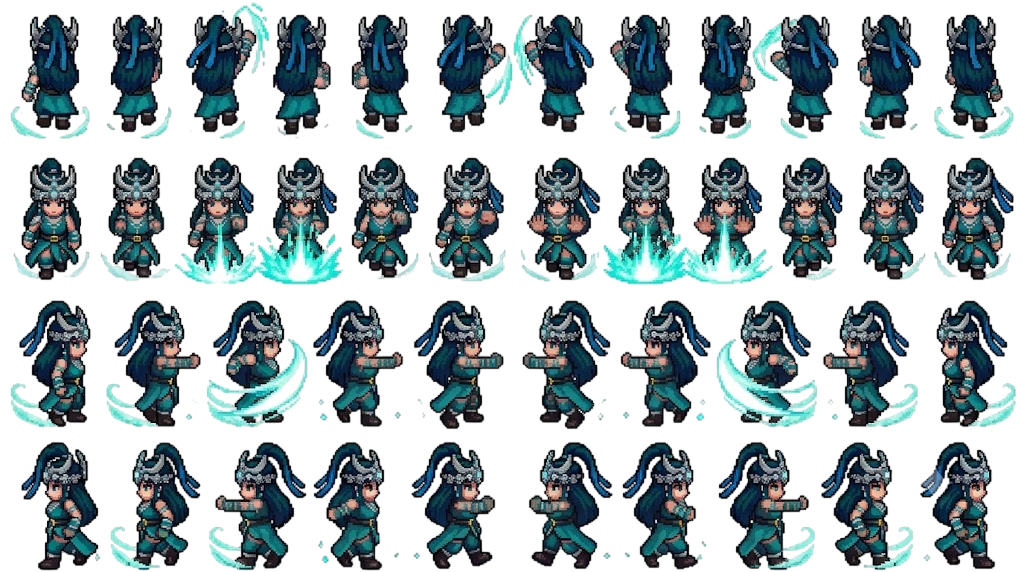
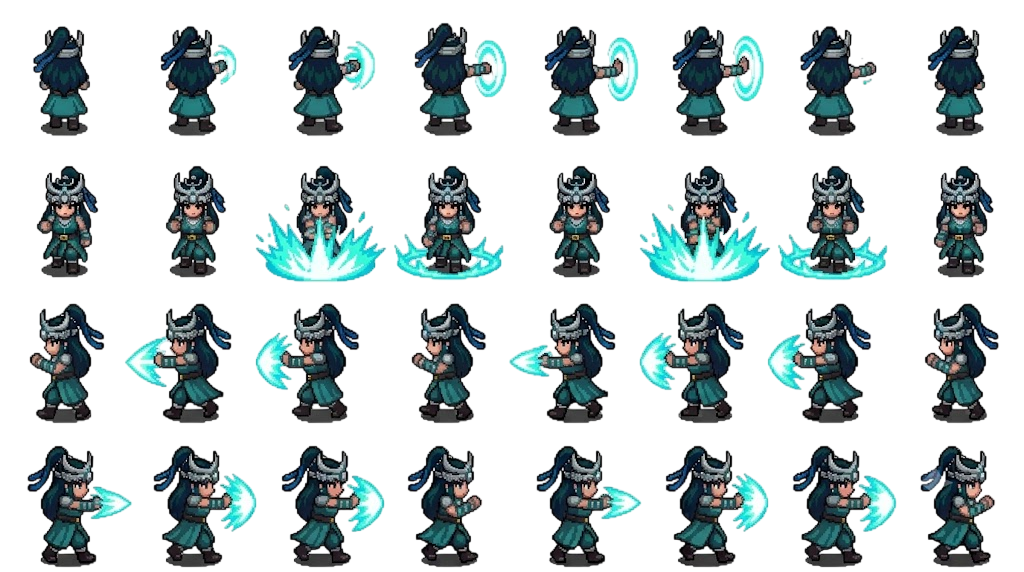
update

diff --git a/src/systems/mat_na_noel.js b/src/systems/mat_na_noel.js
@@ -21,12 +21,12 @@
   var MAT_NA = MN.DS = {
     mat_na_noel: { hinh: "noel", anh: "assets/sprites/ngoai_trang/noel.png", fw: 140, fh: 174, ax: 70, ay: 148, tiLe: 0.46,
       di: [0, 8], danh: [8, 8], ngoi: [16, 2], dung: 18, fpsDi: 11, fpsDanh: 14, fpsNgoi: 1.1 },
-    // Liễu Như Yên: hàng xuống/lên 12 khung, trái/phải 10 khung (soDi/soDanh theo hướng game: xuống, trái, phải, lên)
-    mat_na_lieu_nhu_yen: { hinh: "lieu_nhu_yen", anh: "assets/sprites/ngoai_trang/lieu_nhu_yen.png", fw: 150, fh: 180, ax: 75, ay: 160, tiLe: 0.42,
-      di: [0, 12], danh: [12, 12], soDi: [12, 10, 10, 12], soDanh: [12, 10, 10, 12], ngoi: [24, 2], dung: 26, fpsDi: 12, fpsDanh: 16, fpsNgoi: 1.1 }
+    // Liễu Như Yên: 8 khung đi, 8 khung đánh mỗi hướng; ngồi 2 khung; đứng 1 khung (cắt bằng tools/lieu_nhu_yen/cat.py)
+    mat_na_lieu_nhu_yen: { hinh: "lieu_nhu_yen", anh: "assets/sprites/ngoai_trang/lieu_nhu_yen.png", fw: 150, fh: 180, ax: 75, ay: 160, tiLe: 0.5,
+      di: [0, 8], danh: [8, 8], ngoi: [16, 2], dung: 18, fpsDi: 10, fpsDanh: 14, fpsNgoi: 1.1 }
   };
   var ICON_LNY = "assets/items/icon_mat_na_lieu_nhu_yen.png";
-  if (P.ASSET_MANIFEST) { P.ASSET_MANIFEST[ICON_LNY] = 8730; P.ASSET_MANIFEST[MAT_NA.mat_na_lieu_nhu_yen.anh] = 416173; }
+  if (P.ASSET_MANIFEST) { P.ASSET_MANIFEST[ICON_LNY] = 8730; P.ASSET_MANIFEST[MAT_NA.mat_na_lieu_nhu_yen.anh] = 256920; }
   var ICON = "assets/items/icon_mat_na_noel.png";
   if (P.ASSET_MANIFEST) { P.ASSET_MANIFEST[ICON] = 6881; P.ASSET_MANIFEST[MAT_NA.mat_na_noel.anh] = 286997; }
 
@@ -80,7 +80,7 @@
   function layAnh(m) {
     var a = anh[m.anh];
     if (a) return a.complete && a.naturalWidth ? a : null;
-    a = anh[m.anh] = new Image(); a.src = m.anh + "?v=7";
+    a = anh[m.anh] = new Image(); a.src = m.anh + "?v=8";
     return null;
   }
 

diff --git a/index.html b/index.html
@@ -990,7 +990,7 @@
 <script src="src/systems/loot_rates.js?v=2"></script>
 <script src="src/systems/thu_cuoi.js?v=7"></script>
 <script src="src/systems/phi_phong.js?v=10"></script>
-<script src="src/systems/vat_pham_moi.js?v=1"></script>
+<script src="src/systems/vat_pham_moi.js?v=2"></script>
 <script src="src/systems/thong_ke.js?v=1"></script>
 <script src="src/systems/gacha.js?v=2234ca720f84"></script>
 <script src="src/systems/food.js?v=c2c3e29c5442"></script>
@@ -1221,12 +1221,11 @@
 <script src="src/core/game.js?v=ee599baa4209"></script>
 <script src="src/systems/bot.js?v=4"></script>
 <script src="src/systems/huyen_am_tram.js?v=8"></script>
-<script src="src/systems/nhan_kiem_hop_nhat.js?v=4"></script>
 <script src="src/world/map_bach_ho_duong.js?v=1"></script>
 <script src="src/systems/long_quy.js?v=7"></script>
 <script src="src/systems/bach_ho_duong.js?v=7"></script>
 <script src="src/systems/van_tieu_offline.js?v=2"></script>
-<script src="src/systems/mat_na_noel.js?v=11"></script>
+<script src="src/systems/mat_na_noel.js?v=12"></script>
 <script src="src/systems/trieu_hoi.js?v=1"></script>
 <script src="src/main.js?v=3a299e936ed3"></script>
 </body>

diff --git a/src/systems/vat_pham_moi.js b/src/systems/vat_pham_moi.js
@@ -10,4 +10,13 @@
   var I = P.ITEMS;   // ví dụ: I.ten_moi = { id: "ten_moi", name: "...", ... };
 
   // (Huyết Ma Phủ đã có trong items.js bản mới của tác giả — không khai báo lại ở đây.)
+
+  // Vật phẩm đã gỡ khỏi game: xoá khỏi túi đồ của người chơi cũ khi vào game
+  var DA_GO = ["bi_tich_nhan_kiem_hop_nhat"];
+  function donTui() {
+    var INV = P.Inventory; if (!INV || !INV.bag) return false;
+    DA_GO.forEach(function (id) { if (id in INV.bag) delete INV.bag[id]; if (INV.bound && id in INV.bound) delete INV.bound[id]; });
+    return true;
+  }
+  var lan = 0, hen = setInterval(function () { donTui(); if (++lan > 60) clearInterval(hen); }, 1000);
 })(window.PNTT);

diff --git a/admin.html b/admin.html
@@ -149,7 +149,6 @@
 <script src="src/systems/thu_cuoi.js"></script>
 <script src="src/systems/phi_phong.js"></script>
 <script src="src/systems/huyen_am_tram.js"></script>
-<script src="src/systems/nhan_kiem_hop_nhat.js"></script>
 <script src="src/systems/mat_na_noel.js"></script>
 <script>
 (function () {

diff --git a/tools/lieu_nhu_yen/cat.py b/tools/lieu_nhu_yen/cat.py
@@ -1,24 +1,47 @@
-# Cắt sprite Liễu Như Yên: di.png (đi), danh.png (đánh), ngoi.png (ngồi 2 khung), dung2.png (đứng, nền trong suốt)
-# Hàng gốc: 0 lưng (lên), 1 mặt (xuống), 2 quay phải, 3 quay trái. Hàng trên 12 khung, 2 hàng dưới 10 khung.
-# Ảnh ra: 4 hàng theo hướng game (xuống, trái, phải, lên); cột 0-11 đi, 12-23 đánh, 24-25 ngồi, 26 đứng.
+# Cắt sprite Liễu Như Yên (bản 2): di.png (đi 8 khung), danh.png (đánh 8 khung), ngoi.png (ngồi 2 khung, nền trắng), dung2.png (đứng)
+# Hàng gốc: 0 lưng (lên), 1 mặt (xuống), 2 quay trái, 3 quay phải. Bỏ bóng xám dưới chân (game tự vẽ bóng).
+# Ảnh ra: 4 hàng theo hướng game (xuống, trái, phải, lên); cột 0-7 đi, 8-15 đánh, 16-17 ngồi, 18 đứng.
 import json
 import numpy as np
 from PIL import Image
+from scipy import ndimage as nd
 FW, FH, AX, AY = 150, 180, 75, 160
-ROWS = [(0, 148), (148, 292), (292, 436), (436, 572)]
-SO = [12, 12, 10, 10]
-G2S = [1, 3, 2, 0]
-def nen_xanh(a):  # vệt gió xanh ngọc: sáng, xanh lá + lam cao, đỏ thấp
-    return (a[..., 1] > 150) & (a[..., 2] > 150) & (a[..., 0] < 150)
-def o(sheet, r, i):
-    y0, y1 = ROWS[r]; w = 1024 / SO[r]
-    return sheet.crop((round(i * w), y0, round((i + 1) * w), y1))
+G2S = [1, 2, 3, 0]
+def bo_bong(im):
+    """bóng xám hình elip dưới chân: bỏ phần xám, và phần viền tối nằm dưới tâm elip"""
+    a = np.array(im).astype(int); r, g, b, al = a[..., 0], a[..., 1], a[..., 2], a[..., 3]
+    mx = np.maximum(np.maximum(r, g), b); mn = np.minimum(np.minimum(r, g), b)
+    ys_all = np.nonzero((al > 60).any(axis=1))[0]
+    if not len(ys_all): return im
+    G = (al > 0) & (mx - mn < 12) & (mx >= 40) & (mx <= 95)
+    G[:ys_all.max() - 20] = False
+    lab, n = nd.label(G)
+    if n:
+        sz = nd.sum(G, lab, range(1, n + 1)); G = lab == 1 + int(np.argmax(sz))
+    ys, xs = np.nonzero(G)
+    if len(ys) < 30: return im
+    cy, cx = (ys.min() + ys.max()) / 2, (xs.min() + xs.max()) / 2
+    ry, rx = (ys.max() - ys.min()) / 2 + 3, (xs.max() - xs.min()) / 2 + 3
+    yy, xx = np.mgrid[:a.shape[0], :a.shape[1]]
+    trong = ((yy - cy) / ry) ** 2 + ((xx - cx) / rx) ** 2 <= 1
+    xoa = G | (trong & (yy >= cy + 1) & (mx - mn < 18) & (mx < 100)) | ((yy >= cy) & (al < 160) & (mx < 70))
+    a[..., 3] = np.where(xoa, 0, al)
+    return Image.fromarray(a.astype(np.uint8))
+def lon_nhat(im, nguong=40):
+    a = np.array(im); lab, n = nd.label(nd.binary_dilation(a[..., 3] > nguong, iterations=2))
+    if n > 1:
+        sz = nd.sum(np.ones_like(lab), lab, range(1, n + 1)); keep = lab == 1 + int(np.argmax(sz))
+        a[..., 3] = np.where(keep, a[..., 3], 0)
+    im = Image.fromarray(a); return im.crop(im.getbbox())
+def nen_xanh(a): return (a[..., 1] > 150) & (a[..., 2] > 150) & (a[..., 0] < 150)
+def o(sheet, r, i): return sheet.crop((i * 128, r * 143, i * 128 + 128, r * 143 + 143))
 def moc(cell):
-    a = np.array(cell); al = a[..., 3] > 60; than = al & ~nen_xanh(a)
-    ys, xs = np.nonzero(than)
+    a = np.array(cell); al = (a[..., 3] > 60) & ~nen_xanh(a); ys, xs = np.nonzero(al)
     return (xs.mean() if len(xs) else cell.width / 2), (ys.max() if len(ys) else cell.height - 1)
+def cao_than(im):
+    a = np.array(im); al = (a[..., 3] > 60) & ~nen_xanh(a); ys = np.nonzero(al.any(axis=1))[0]; return ys.max() - ys.min()
 DI, DANH = Image.open('di.png').convert('RGBA'), Image.open('danh.png').convert('RGBA')
-out = Image.new('RGBA', (FW * 27, FH * 4))
+out = Image.new('RGBA', (FW * 19, FH * 4))
 def dat(cell, cx, foot, col, row, k=1.0):
     if k != 1.0:
         cell = cell.resize((round(cell.width * k), round(cell.height * k)), Image.LANCZOS); cx *= k; foot *= k
@@ -26,35 +49,22 @@ def dat(cell, cx, foot, col, row, k=1.0):
     out.alpha_composite(fr, (col * FW, row * FH))
 for g in range(4):
     r = G2S[g]
-    cx0, f0 = moc(o(DI, r, 0))
-    for i in range(SO[r]):
-        c = o(DI, r, i); cx, f = moc(c); dat(c, cx, f, i, g)
-    for i in range(SO[r]):
-        c = o(DANH, r, i); cx, f = moc(c); dat(c, cx, f, 12 + i, g)
-# chiều cao chuẩn: khung đi hướng xuống
-a = np.array(o(DI, 1, 0)); al = a[..., 3] > 60; ys = np.nonzero(al.any(axis=1))[0]; H_DUNG = ys.max() - ys.min()
-from scipy import ndimage as nd
-def rong_dau(im):  # bề ngang phần mũ (30% trên cùng, bỏ vệt xanh)
-    a = np.array(im); al = (a[..., 3] > 60) & ~nen_xanh(a); ys = np.nonzero(al.any(axis=1))[0]
-    top = al[ys.min(): ys.min() + int(0.3 * (ys.max() - ys.min()))]; xs = np.nonzero(top.any(axis=0))[0]
-    return xs.max() - xs.min()
-def lon_nhat(im):
-    a = np.array(im); lab, n = nd.label(a[..., 3] > 40)
-    if n > 1:
-        sz = nd.sum(np.ones_like(lab), lab, range(1, n + 1)); a[..., 3] = np.where(lab == 1 + int(np.argmax(sz)), a[..., 3], 0)
-    im = Image.fromarray(a); return im.crop(im.getbbox())
-W_DAU = rong_dau(o(DI, 1, 0))
-# ngồi: 2 khung lớn
-NG = Image.open('ngoi.png').convert('RGBA')
-for j, (x0, x1) in enumerate([(150, 400), (640, 890)]):
-    c = lon_nhat(NG.crop((x0, 200, x1, 540)))
-    k = W_DAU / rong_dau(c)
-    for g in range(4): dat(c, c.width / 2, c.height - 1, 24 + j, g, k)
-# đứng: ảnh người dùng gửi (nền #222)
-dung = lon_nhat(Image.open('dung2.png').convert('RGBA'))   # nền trong suốt
-def cao_than(im):
-    a = np.array(im); al = (a[..., 3] > 60) & ~nen_xanh(a); ys = np.nonzero(al.any(axis=1))[0]; return ys.max() - ys.min()
-k = cao_than(o(DI, 1, 0)) / cao_than(dung)
-for g in range(4): dat(dung, dung.width / 2, dung.height - 1, 26, g, k)
+    for i in range(8):
+        c = bo_bong(o(DI, r, i)); cx, f = moc(c); dat(c, cx, f, i, g)
+        c = bo_bong(o(DANH, r, i)); cx, f = moc(c); dat(c, cx, f, 8 + i, g)
+H = cao_than(bo_bong(o(DI, 1, 0)))
+# ngồi: nền trắng → loang từ mép bỏ trắng
+NG = np.array(Image.open('ngoi.png').convert('RGBA')).astype(int)
+trang = (NG[..., :3].min(axis=2) > 235)
+lab, n = nd.label(trang); mep = set(np.unique(np.concatenate([lab[0], lab[-1], lab[:, 0], lab[:, -1]]))) - {0}
+NG[..., 3] = np.where(np.isin(lab, list(mep)), 0, NG[..., 3])
+NG = Image.fromarray(NG.astype(np.uint8))
+for j, (x0, x1) in enumerate([(40, 500), (530, 1000)]):
+    c = lon_nhat(NG.crop((x0, 100, x1, 700)))
+    k = (H * 0.8) / c.height
+    for g in range(4): dat(c, c.width / 2, c.height - 1, 16 + j, g, k)
+dung = lon_nhat(Image.open('dung2.png').convert('RGBA'))
+k = H / cao_than(dung)
+for g in range(4): dat(dung, dung.width / 2, dung.height - 1, 18, g, k)
 out.save('lieu_nhu_yen.png', optimize=True)
-print(json.dumps(dict(fw=FW, fh=FH, ax=AX, ay=AY, H=int(H_DUNG), so=[SO[G2S[g]] for g in range(4)])))
+print(json.dumps(dict(fw=FW, fh=FH, ax=AX, ay=AY, H=int(H))))
